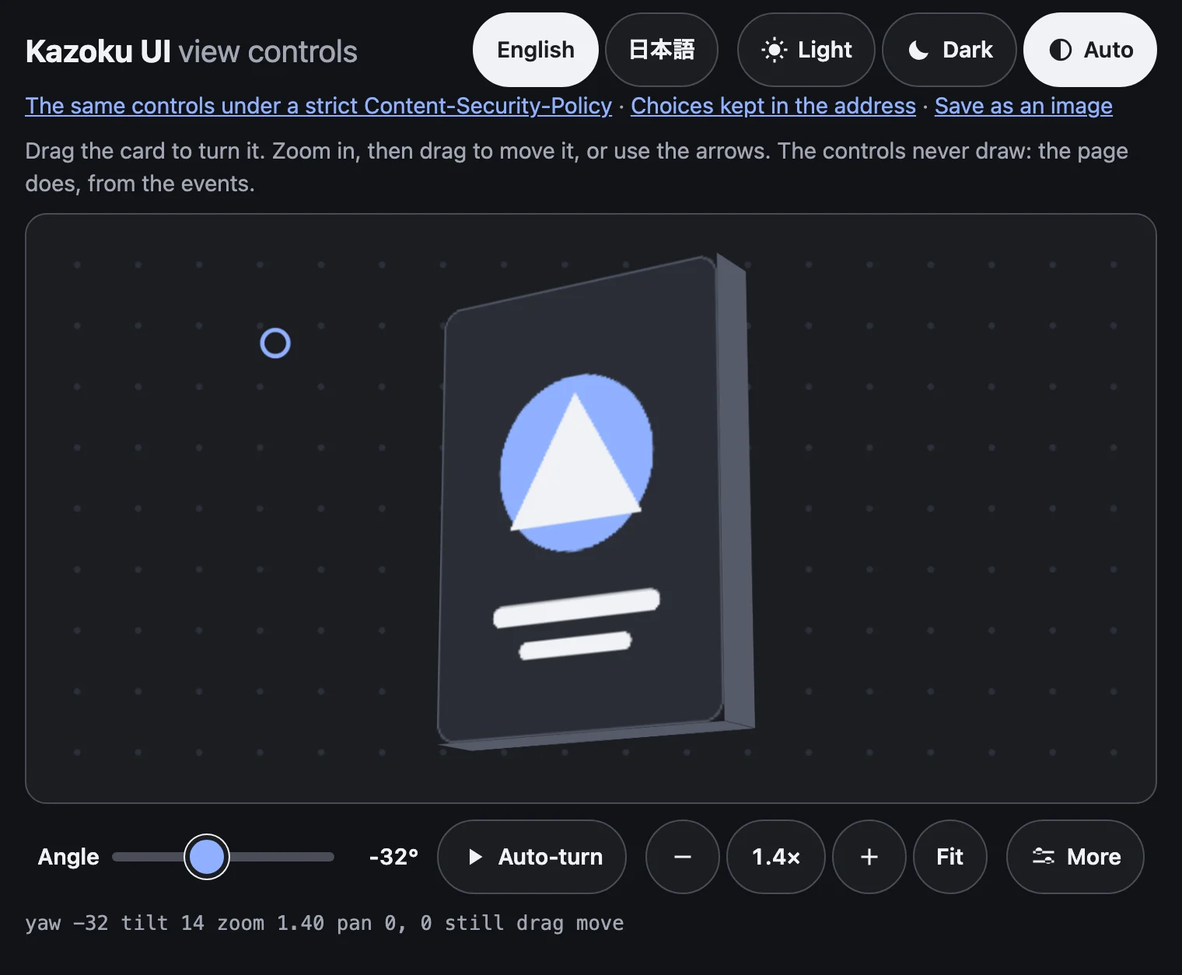
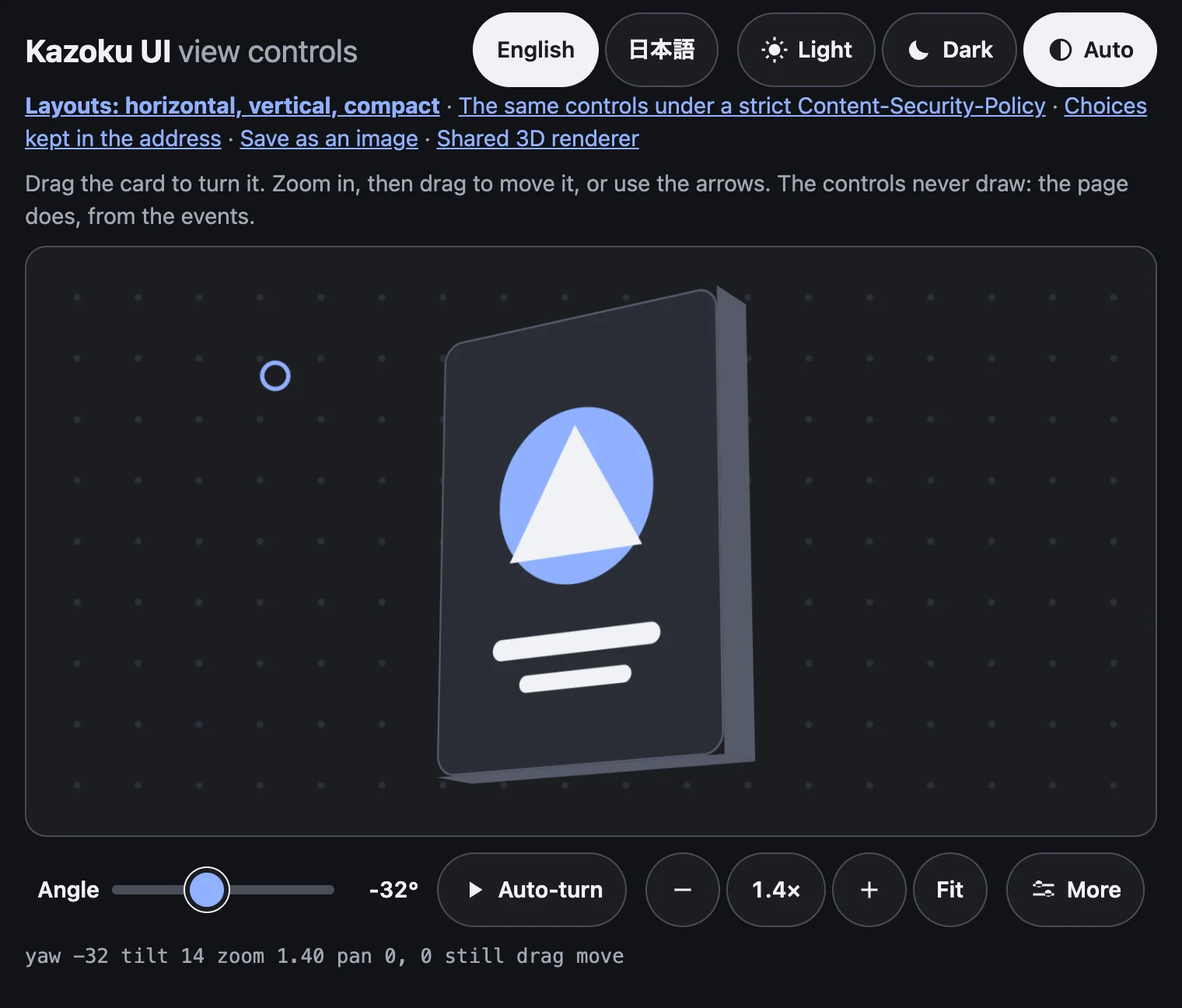
docs(view-controls): the layouts demo and README
demo/layouts.html shows every layout live side by side with its code and a choice of zoom range; the README shows them in a picture made by pnpm screenshots, with a table of what each shows.

diff --git a/demo/layouts.html b/demo/layouts.html
@@ -1,0 +1,99 @@
+<!doctype html>
+<html lang="en">
+<head>
+  <meta charset="utf-8" />
+  <meta name="viewport" content="width=device-width, initial-scale=1" />
+  <meta name="color-scheme" content="light dark" />
+  <title>Kazoku UI: view controls layouts</title>
+  <link rel="stylesheet" href="demo.css" />
+</head>
+<body class="wide">
+<main>
+  <header class="top">
+    <h1>Kazoku UI <span class="sub">view controls layouts</span></h1>
+    <div class="tools">
+      <kazoku-language-picker id="language" languages="en ja" address storage="kazoku-demo-lang" data-testid="language"></kazoku-language-picker>
+      <kazoku-theme-switch id="theme" address storage="kazoku-demo-theme" data-testid="theme"></kazoku-theme-switch>
+    </div>
+  </header>
+  <p class="intro nav"><a href="index.html">The view controls</a> · <a href="https://github.com/johnmorrisdotca/kazoku-ui#layouts">The layouts in the README</a></p>
+  <p class="intro">One element, four layouts, chosen by the <code>layout</code> attribute. Each one below is live: drag a card, press the buttons, slide the zoom. More shows the rest in every layout.</p>
+  <div class="row picks"><span class="name" id="pick-name">Layout</span>
+    <div class="seg" role="group" aria-labelledby="pick-name" data-testid="picks">
+      <button class="pill" type="button" data-pick="horizontal" aria-pressed="true">Horizontal</button>
+      <button class="pill" type="button" data-pick="vertical" aria-pressed="false">Vertical</button>
+      <button class="pill" type="button" data-pick="compact" aria-pressed="false">Compact</button>
+      <button class="pill" type="button" data-pick="classic" aria-pressed="false">Classic</button>
+    </div>
+  </div>
+  <div class="row ranges"><span class="name" id="range-name">Zoom range</span>
+    <div class="seg" role="group" aria-labelledby="range-name" data-testid="ranges">
+      <button class="pill" type="button" data-range="1-5" aria-pressed="true">1× to 5×</button>
+      <button class="pill" type="button" data-range="0.5-4" aria-pressed="false">0.5× to 4×</button>
+      <button class="pill" type="button" data-range="1-10" aria-pressed="false">1× to 10×</button>
+      <button class="pill" type="button" data-range="0.25-16" aria-pressed="false">0.25× to 16×</button>
+    </div>
+  </div>
+  <pre class="code" data-testid="import"><code>import "@johnmorrisdotca/kazoku-ui/view-controls/define";</code></pre>
+
+  <div class="layouts" data-testid="layouts" data-show="horizontal">
+    <section class="layout" data-layout="horizontal" aria-labelledby="h-horizontal">
+      <h2 id="h-horizontal"><code>layout="horizontal"</code></h2>
+      <p class="say">A tidy bar under the view: the turn on one row, the zoom slider on the next; one row when it is wide.</p>
+      <div class="stage">
+        <div class="scene small" id="view-horizontal" tabindex="0" role="group" aria-label="Horizontal example"></div>
+        <kazoku-view-controls for="view-horizontal" layout="horizontal" storage="kazoku-demo-horizontal" data-testid="controls-horizontal"></kazoku-view-controls>
+      </div>
+      <div class="snippet"><pre class="code"><code data-code="horizontal"></code></pre><button class="pill copy" type="button" data-copy="horizontal">Copy</button></div>
+    </section>
+
+    <section class="layout" data-layout="vertical" aria-labelledby="h-vertical">
+      <h2 id="h-vertical"><code>layout="vertical"</code></h2>
+      <p class="say">A column beside the view. Auto-turn and More stay at the top; the turn, then the zoom.</p>
+      <div class="stage beside">
+        <div class="scene small" id="view-vertical" tabindex="0" role="group" aria-label="Vertical example"></div>
+        <kazoku-view-controls for="view-vertical" layout="vertical" storage="kazoku-demo-vertical" data-testid="controls-vertical"></kazoku-view-controls>
+      </div>
+      <div class="snippet"><pre class="code"><code data-code="vertical"></code></pre><button class="pill copy" type="button" data-copy="vertical">Copy</button></div>
+    </section>
+
+    <section class="layout" data-layout="compact" aria-labelledby="h-compact">
+      <h2 id="h-compact"><code>layout="compact"</code></h2>
+      <p class="say">One short row for a card or a phone: Auto-turn, the zoom and More. More opens the slider, the angle and the rest.</p>
+      <div class="stage">
+        <div class="scene small" id="view-compact" tabindex="0" role="group" aria-label="Compact example"></div>
+        <kazoku-view-controls for="view-compact" layout="compact" storage="kazoku-demo-compact" data-testid="controls-compact"></kazoku-view-controls>
+      </div>
+      <div class="snippet"><pre class="code"><code data-code="compact"></code></pre><button class="pill copy" type="button" data-copy="compact">Copy</button></div>
+    </section>
+
+    <section class="layout" data-layout="classic" aria-labelledby="h-classic">
+      <h2 id="h-classic"><code>layout="classic"</code> <span class="sub">(the default)</span></h2>
+      <p class="say">The bar of 0.10 and before, unchanged: a page that names no layout keeps it.</p>
+      <div class="stage">
+        <div class="scene small" id="view-classic" tabindex="0" role="group" aria-label="Classic example"></div>
+        <kazoku-view-controls for="view-classic" storage="kazoku-demo-classic" data-testid="controls-classic"></kazoku-view-controls>
+      </div>
+      <div class="snippet"><pre class="code"><code data-code="classic"></code></pre><button class="pill copy" type="button" data-copy="classic">Copy</button></div>
+    </section>
+  </div>
+</main>
+<template id="card">
+  <div class="zoomer">
+    <div class="grid"></div>
+    <div class="persp">
+      <div class="card">
+        <div class="face front">
+          <svg viewBox="0 0 150 210" aria-hidden="true"><circle cx="75" cy="86" r="42" class="a"/><path d="M75 52l36 62H39z" class="b"/><rect x="30" y="150" width="90" height="10" rx="5" class="b"/><rect x="45" y="168" width="60" height="8" rx="4" class="b"/></svg>
+        </div>
+        <div class="face back">
+          <svg viewBox="0 0 150 210" aria-hidden="true"><rect x="34" y="40" width="82" height="82" rx="14" class="a"/><circle cx="75" cy="81" r="20" class="b"/><rect x="30" y="150" width="90" height="10" rx="5" class="b"/><rect x="45" y="168" width="60" height="8" rx="4" class="b"/></svg>
+        </div>
+        <div class="face edge-l"></div><div class="face edge-r"></div><div class="face edge-t"></div><div class="face edge-b"></div>
+      </div>
+    </div>
+  </div>
+</template>
+<script type="module" src="layouts.js"></script>
+</body>
+</html>

diff --git a/demo/layouts.js b/demo/layouts.js
@@ -1,0 +1,83 @@
+// The layouts side by side: one card per layout, each drawn with CSS 3D from its own element's events, with the code that makes it.
+import "./dist/language-picker/define.js";
+import "./dist/view-controls/define.js";
+import "./dist/theme-switch/define.js";
+
+const all = [...document.querySelectorAll("kazoku-view-controls")];
+const template = document.getElementById("card");
+
+for (const controls of all) {
+  const scene = document.getElementById(controls.getAttribute("for"));
+  scene.append(template.content.cloneNode(true));
+  const card = scene.querySelector(".card");
+  const zoomer = scene.querySelector(".zoomer");
+  controls.addEventListener("kazoku-viewchange", ({ detail: s }) => {
+    card.style.transform = `rotateX(${s.tilt}deg) rotateY(${s.yaw}deg)`;
+    zoomer.style.transform = s.zoom === 1 && s.panX === 0 && s.panY === 0 ? "" : `translate(${s.panX}px, ${s.panY}px) scale(${s.zoom})`;
+  });
+}
+
+// The code for each layout, with the zoom range when it is not the default one.
+let range = { min: "1", max: "5" };
+const limits = () => (range.min === "1" && range.max === "5" ? "" : ` zoom-min="${range.min}" zoom-max="${range.max}"`);
+const CODE = {
+  horizontal: () => `<div id="view" tabindex="0">…your scene…</div>\n<kazoku-view-controls for="view" layout="horizontal"${limits()}></kazoku-view-controls>`,
+  vertical: () => `<div style="display: flex; gap: 12px">\n  <div id="view" tabindex="0" style="flex: 1">…your scene…</div>\n  <kazoku-view-controls for="view" layout="vertical"${limits()}></kazoku-view-controls>\n</div>`,
+  compact: () => `<div id="view" tabindex="0">…your scene…</div>\n<kazoku-view-controls for="view" layout="compact"${limits()}></kazoku-view-controls>`,
+  classic: () => `<div id="view" tabindex="0">…your scene…</div>\n<kazoku-view-controls for="view"${limits()}></kazoku-view-controls>`,
+};
+const writeCode = () => {
+  for (const node of document.querySelectorAll("[data-code]")) node.textContent = CODE[node.dataset.code]();
+};
+writeCode();
+
+// The zoom range: the slider's marks are the ends and the common zooms between them.
+for (const button of document.querySelectorAll("[data-range]")) {
+  button.addEventListener("click", () => {
+    const [min, max] = button.dataset.range.split("-");
+    range = { min, max };
+    for (const other of document.querySelectorAll("[data-range]")) other.setAttribute("aria-pressed", String(other === button));
+    for (const controls of all) {
+      controls.setAttribute("zoom-min", min);
+      controls.setAttribute("zoom-max", max);
+    }
+    writeCode();
+  });
+}
+
+// On a narrow screen one layout at a time, picked from a row; a wide one shows them all side by side.
+const layouts = document.querySelector(".layouts");
+for (const button of document.querySelectorAll("[data-pick]")) {
+  button.addEventListener("click", () => {
+    layouts.dataset.show = button.dataset.pick;
+    for (const other of document.querySelectorAll("[data-pick]")) other.setAttribute("aria-pressed", String(other === button));
+  });
+}
+
+for (const button of document.querySelectorAll("[data-copy]")) {
+  button.addEventListener("click", async () => {
+    const text = CODE[button.dataset.copy]();
+    try {
+      await navigator.clipboard.writeText(text);
+      button.textContent = "Copied";
+    } catch {
+      // No clipboard here (an older browser, or permission refused): select the code so a press of Copy on the keyboard takes it.
+      const code = button.parentElement.querySelector("code");
+      window.getSelection()?.selectAllChildren(code);
+      button.textContent = "Selected";
+    }
+    window.setTimeout(() => { button.textContent = "Copy"; }, 1500);
+  });
+}
+
+const themeSwitch = document.getElementById("theme");
+themeSwitch.addEventListener("kazoku-themechange", (event) => {
+  for (const controls of all) {
+    if (event.detail.choice === "auto") controls.removeAttribute("theme");
+    else controls.setAttribute("theme", event.detail.choice);
+  }
+});
+document.getElementById("language").addEventListener("kazoku-languagechange", (event) => {
+  for (const controls of all) controls.setAttribute("lang", event.detail.lang);
+  themeSwitch.setAttribute("lang", event.detail.lang);
+});

diff --git a/demo/demo.css b/demo/demo.css
@@ -76,3 +76,36 @@ output[data-testid="address"] { min-width: 0; overflow-wrap: anywhere; font: 0.8
 .art .b { fill: var(--face-b); }
 
 #globe { position: absolute; inset: 0; margin: auto; width: 300px; height: 300px; pointer-events: none; }
+/* layouts.html: the layouts side by side. */
+.wide main { max-width: 1240px; }
+.ranges { margin: 4px 0 10px; }
+.layouts { display: grid; gap: 16px; grid-template-columns: repeat(auto-fit, minmax(min(100%, 520px), 1fr)); align-items: start; }
+.layout { min-width: 0; padding: 12px 14px 14px; border: 1px solid var(--line); border-radius: 14px; background: var(--surface); }
+.layout h2 { margin: 0 0 2px; font-size: 1rem; }
+.layout h2 .sub { font-size: 0.9rem; }
+.layout .say { margin: 0 0 8px; color: var(--muted); font-size: 0.9rem; }
+.layout .scene.small { height: 240px; background: var(--bg); }
+.layout .card { width: 110px; height: 154px; }
+.layout .edge-l { transform: rotateY(-90deg) translateZ(55px); }
+.layout .edge-r { transform: rotateY(90deg) translateZ(55px); }
+.layout .edge-t { transform: rotateX(90deg) translateZ(77px); }
+.layout .edge-b { transform: rotateX(-90deg) translateZ(77px); }
+.stage.beside { display: flex; gap: 12px; align-items: flex-start; }
+.stage.beside .scene { flex: 1 1 auto; min-width: 0; height: 280px; }
+.stage.beside kazoku-view-controls { margin-top: 0; flex: none; }
+.snippet { display: flex; align-items: flex-start; gap: 8px; margin-top: 10px; }
+.snippet pre { flex: 1 1 auto; margin: 0; }
+.code { min-width: 0; overflow-x: auto; white-space: pre-wrap; overflow-wrap: anywhere; margin: 0 0 12px; padding: 10px 12px; border: 1px solid var(--line); border-radius: 10px; background: var(--bg); font: 0.8rem/1.5 ui-monospace, "SF Mono", Menlo, monospace; }
+.copy { flex: none; }
+.picks { display: none; }
+@media (max-width: 1099px) {
+  .picks { display: flex; margin: 0 0 10px; }
+  .layouts[data-show="horizontal"] .layout:not([data-layout="horizontal"]), .layouts[data-show="vertical"] .layout:not([data-layout="vertical"]), .layouts[data-show="compact"] .layout:not([data-layout="compact"]), .layouts[data-show="classic"] .layout:not([data-layout="classic"]) { display: none; }
+}
+@media (max-width: 640px) {
+  .stage.beside { flex-direction: column; align-items: stretch; }
+  .stage.beside .scene { height: min(260px, 34vh); }
+  .stage.beside kazoku-view-controls { width: auto; }
+  .layout .scene.small { height: min(220px, 30vh); }
+  .ranges .name { min-width: 0; }
+}

diff --git a/demo/index.html b/demo/index.html
@@ -16,7 +16,7 @@
       <kazoku-theme-switch id="theme" address storage="kazoku-demo-theme" data-testid="theme"></kazoku-theme-switch>
     </div>
   </header>
-  <p class="intro"><a href="csp.html">The same controls under a strict Content-Security-Policy</a> · <a href="address.html">Choices kept in the address</a> · <a href="save-image.html">Save as an image</a> · <a href="renderer.html">Shared 3D renderer</a></p>
+  <p class="intro"><a href="layouts.html"><strong>Layouts: horizontal, vertical, compact</strong></a> · <a href="csp.html">The same controls under a strict Content-Security-Policy</a> · <a href="address.html">Choices kept in the address</a> · <a href="save-image.html">Save as an image</a> · <a href="renderer.html">Shared 3D renderer</a></p>
   <p class="intro" data-say="intro">Drag the card to turn it. Zoom in, then drag to move it, or use the arrows. The controls never draw: the page does, from the events.</p>
   <div class="scene" id="scene" tabindex="0" role="group" aria-roledescription="3D view" data-testid="scene">
     <div class="zoomer" id="zoomer" data-testid="zoomer">

diff --git a/README.md b/README.md
@@ -9,7 +9,7 @@ The family's shared interface parts, as their own versioned package: one part pe
 The first part is the **view controls** for any 3D or zoomable view. They never draw the scene: they tell your page what the reader chose, and your canvas, WebGL,
 SVG or CSS 3D applies it.
 
-[Demo](https://johnmorrisdotca.github.io/kazoku-ui/) · [Strict-CSP demo](https://johnmorrisdotca.github.io/kazoku-ui/csp.html) · [Theme switch](docs/theme-switch.md) · [Language picker](docs/language-picker.md) · [Address state](docs/address-state.md) · [Save image](docs/save-image.md) · [Shared 3D renderer](docs/renderer.md) · [The drag rule](docs/drag-rule.md) · [Content-Security-Policy](docs/csp.md) · [Labels, English and 日本語](docs/labels.md) · [Changelog](CHANGELOG.md)
+[Demo](https://johnmorrisdotca.github.io/kazoku-ui/) · [Layouts demo](https://johnmorrisdotca.github.io/kazoku-ui/layouts.html) · [Strict-CSP demo](https://johnmorrisdotca.github.io/kazoku-ui/csp.html) · [Theme switch](docs/theme-switch.md) · [Language picker](docs/language-picker.md) · [Address state](docs/address-state.md) · [Save image](docs/save-image.md) · [Shared 3D renderer](docs/renderer.md) · [The drag rule](docs/drag-rule.md) · [Content-Security-Policy](docs/csp.md) · [Labels, English and 日本語](docs/labels.md) · [Changelog](CHANGELOG.md)
 
 ```sh
 npm install @johnmorrisdotca/kazoku-ui
@@ -44,8 +44,47 @@ Parts (each its own subpath; later ones: picture-tile pickers, Help, GitHub and 
 - Touch: one finger turns at 1x and moves the view when zoomed in; two fingers pinch.
 - Keys on the view: arrows turn and tip it, `+` and `-` zoom, `0` or Home is Front and Fit.
 - The choices are kept in the address, with keys you can rename.
+- **Four layouts** (`layout`: classic, horizontal, vertical, compact) and a **zoom slider** with marks at 1×, 2× and the ends: see [Layouts](#layouts).
 - Labels in English and Japanese; light and dark; 48 px touch targets; a compact bar on a phone; no automatic turn for a reader who prefers reduced motion.
 - **A control never stops or resets the turn.** Zoom, tilt, pan, the Move or Turn choice, Fit and Front all leave Auto-turn running (Front only sets the angle to 0 and the turn goes on from there). A hand on the angle slider, or turning the view by dragging it, holds the turn still while it is down and the turn carries on from where the hand left it. Only the Auto-turn button pauses it.
+
+### Layouts
+
+<picture>
+<source media="(prefers-color-scheme: dark)" srcset="https://raw.githubusercontent.com/johnmorrisdotca/kazoku-ui/main/docs/images/layouts-dark.webp">
+<img alt="The four layouts side by side, each under a turned card. Horizontal: an Angle slider with Auto-turn and More on one row, and under it a Zoom slider marked 1×, 2×, 3× and 5× with zoom out, the readout 1.6×, zoom in and Fit. Vertical: a column beside the view with Auto-turn and More at the top, then the Angle slider, the Zoom slider with its marks, and zoom out, 1.6×, zoom in and Fit. Compact: one short row of Auto-turn, zoom out, 1.6×, zoom in and More, here opened to show the zoom slider and Fit, the angle and tilt, the three speeds, Front and the pan pad. Classic: the bar as before. Each has its code and a Copy button." src="https://raw.githubusercontent.com/johnmorrisdotca/kazoku-ui/main/docs/images/layouts-light.webp" width="720">
+</picture>
+
+Try them on the [layouts demo](https://johnmorrisdotca.github.io/kazoku-ui/layouts.html): every layout live, side by side, each with its code to copy, and a choice of zoom range to see the slider's marks change.
+
+The `layout` attribute says where the controls sit; `controls` (`basic` or `advanced`, and the reader's More) still says what is shown, the same in every layout. A page that names no layout keeps the bar it had.
+
+| `layout` | What it looks like | Basic shows | More adds |
+|---|---|---|---|
+| `classic` (the default) | The bar of 0.10 and before, unchanged: one wrapping row at a desk, two rows on a phone. No zoom slider. | Angle, Auto-turn, − readout +, Fit, More | Tilt, Slow, Medium, Fast, Front; the pan pad once zoomed in |
+| `horizontal` | A tidy bar under the view: the turn on one row (Angle, Auto-turn, More), the **zoom slider** on the next (Zoom, − readout +, Fit). One row when the bar is 900 px or wider. Under 560 px the labels are read by a screen reader only, and the readout is Fit. | Angle, Auto-turn, the zoom slider, − readout +, Fit, More | Tilt and Front, then the speeds, between the two rows; the pan pad last |
+| `vertical` | A column beside the view, `--kazoku-column-width` wide (16rem). Auto-turn and More at the top, so More does not move when it opens; then the Angle slider, the zoom slider, and − readout + and Fit. On a narrow screen put it under the view and give it `width: auto`. | Auto-turn, More, Angle, the zoom slider, − readout +, Fit | Tilt, the speeds, Front, the pan pad, in the column |
+| `compact` | The least room, for a card or a phone: **one row** of Auto-turn, −, the readout, + and More (icons, named for a screen reader). It never takes a second row until More is pressed; while it turns, the speed is in More. | Auto-turn, − readout +, More | Everything else, one press away, under the row: the zoom slider and Fit, Angle, Tilt, the speeds, Front, the pan pad |
+
+```html
+<!-- Horizontal: under the view -->
+<div id="view" tabindex="0">...your scene...</div>
+<kazoku-view-controls for="view" layout="horizontal"></kazoku-view-controls>
+
+<!-- Vertical: beside the view -->
+<div style="display: flex; gap: 12px">
+  <div id="view" tabindex="0" style="flex: 1">...your scene...</div>
+  <kazoku-view-controls for="view" layout="vertical"></kazoku-view-controls>
+</div>
+
+<!-- Compact: one row; with overlay it floats over the bottom corner of a positioned card -->
+<div style="position: relative">
+  <div id="view" tabindex="0">...your scene...</div>
+  <kazoku-view-controls for="view" layout="compact" overlay></kazoku-view-controls>
+</div>
+```
+
+**The zoom slider** (horizontal, vertical and compact) runs from `zoom-min` to `zoom-max` on a logarithmic scale, so a press of − or + moves it the same distance anywhere along it. It has marks, labelled, at both ends and at the common zooms between them that have room for a label: 1× to 5× gives 1×, 2×, 3×, 5×; 0.5× to 4× gives 0.5×, 1×, 2×, 4×; 1× to 10× gives 1×, 2×, 4×, 10×. The readout beside it is the true zoom, and the slider always shows it too, whatever moved the view (the buttons, the wheel, a pinch, a double press, Fit, the keys on the view, the address, `set`, the limits). A drag or a press that ends within 8 px of a mark goes to it; anywhere else it stays where it was let go. − and + still step by 1.4×. Keys on the slider: the arrows step by 1.1× and stop on a mark they would pass, Page Up and Page Down go to the next mark, Home and End to the ends. A screen reader hears its value as the readout says it (`2.4×`), and its name is Zoom. Without the element, `zoomMarks(min, max)`, `zoomPosition`, `zoomAtPosition`, `zoomStep`, `zoomToMark` and `zoomSnap` are the same scale in `@johnmorrisdotca/kazoku-ui/view-controls`.
 
 ### In plain HTML
 
@@ -193,16 +232,17 @@ An `init` event is sent once, a moment after the element connects, with the star
 | `autoplay-for` | Seconds of turning after which the `autoplay` turn stops by itself (as Auto-turn pressed). Left out, it never stops. Time spent paused off screen or in a hidden tab is not counted, and a reader's own Auto-turn press has no limit. |
 | `speed` | Degrees a second at Medium (30); Slow is half and Fast twice. |
 | `controls` | `basic` (the default) or `advanced`: which controls are shown (see above; the zoom readout in both, the speed in both while the view turns). Written in the page's markup it is where the reader starts; what the reader chose with More is remembered under `kazoku-view-controls` in `localStorage` (or the key `storage` names) and wins. Setting the attribute later changes the level at once. The host carries `data-level` with the level now. |
+| `layout` | `classic` (the default), `horizontal`, `vertical` or `compact`: where the controls sit (see [Layouts](#layouts)). Can change at any time. Anything else is `classic`. The host carries `data-layout` with the layout in use. |
 | `storage` | The `localStorage` key the level is remembered under (`kazoku-view-controls`). |
 | `flat` | The view cannot turn: no angle, tilt, Auto-turn or Front, and a drag moves it. |
 | `tilt-max`, `zoom-min`, `zoom-max` | The limits (30, 1, 5). |
 | `address` | Keep the choices in the page's address (`?yaw=40&tilt=10&zoom=2&drag=turn&speed=fast`). |
 | `address-keys` | Other keys: `yaw:a,zoom:z`. |
 | `theme` | `light` or `dark`; otherwise the page's colour scheme. |
-| `overlay` | Sit over the bottom of a positioned parent. |
+| `overlay` | Sit over the bottom of a positioned parent. With `layout="compact"` the row floats 8 px in from the bottom start corner instead of spanning the bottom. |
 
 Methods: `play()`, `pause()`, `front()`, `fit()`, `set({ yaw, tilt, zoom, panX, panY, drag })`, `setFitScale(n)`, and `controller` (the `createViewController` object behind it). `element.words = { front: "Home" }` replaces labels.
-Colours are custom properties: `--kazoku-ink`, `--kazoku-surface`, `--kazoku-line`, `--kazoku-accent`; the parts are `bar`, `field`, `slider` and `button`.
+Colours are custom properties: `--kazoku-ink`, `--kazoku-surface`, `--kazoku-line`, `--kazoku-accent`; the parts are `bar`, `field`, `slider` and `button`, and the zoom slider's `zoom-slider` (on its field and its input).
 
 ### The address
 
@@ -295,11 +335,11 @@ The styles are adopted as a constructable stylesheet (`adoptedStyleSheets`), so 
 
 ## Size
 
-Gzipped, unbundled. View controls: the element and its definition about 7.3 KB, the controller 4.6 KB, the sight watch 0.6 KB, the maths 1.4 KB, the address 1.4 KB, the levels 0.4 KB, the labels 0.9 KB and the styles 2.0 KB. Theme switch: the element and its definition 3.3 KB, the choices 1.0 KB, the labels 0.3 KB and the styles 0.3 KB. Language picker: the element and its definition 2.8 KB, the codes and names 1.7 KB, the labels 0.3 KB. Save image: the element and its definition 3.0 KB, the rendering 3.6 KB, the formats and file names 1.0 KB, the labels 0.4 KB. Address state: 2.1 KB. Shared 3D renderer: 8.9 KB (the renderer 4.5, the scheduler 1.2, the assets 1.4, the stills 0.6, the pixel budget 0.8, the index 0.4), the test kit 1.6 KB; three.js is the page's own and is not counted. Shared by parts: the style adoption 0.8 KB, the base styles 1.0 KB, the page's colours 0.5 KB and the target and the store 0.6 KB. `pnpm test:package` prints them. Nothing is loaded from the network.
+Gzipped, unbundled. View controls: the element and its definition about 8.7 KB, the controller 4.6 KB, the sight watch 0.6 KB, the maths 1.4 KB, the address 1.4 KB, the levels and layouts 0.6 KB, the zoom scale 1.5 KB, the labels 0.9 KB and the styles 3.7 KB (the four layouts and the slider). Theme switch: the element and its definition 3.3 KB, the choices 1.0 KB, the labels 0.3 KB and the styles 0.3 KB. Language picker: the element and its definition 2.8 KB, the codes and names 1.7 KB, the labels 0.3 KB. Save image: the element and its definition 3.0 KB, the rendering 3.6 KB, the formats and file names 1.0 KB, the labels 0.4 KB. Address state: 2.1 KB. Shared 3D renderer: 8.9 KB (the renderer 4.5, the scheduler 1.2, the assets 1.4, the stills 0.6, the pixel budget 0.8, the index 0.4), the test kit 1.6 KB; three.js is the page's own and is not counted. Shared by parts: the style adoption 0.8 KB, the base styles 1.0 KB, the page's colours 0.5 KB and the target and the store 0.6 KB. `pnpm test:package` prints them. Nothing is loaded from the network.
 
 ## Checks
 
-`pnpm check` (lint, types, 104 unit tests of the maths, the address, the controller and the package, the build and the packed package), and `pnpm test:demo` (the demo in Chromium and WebKit at a phone's width and a desk's: the controls in the first screen, a toggle during Auto-turn leaves the angle advancing, the frame loop counted at `requestAnimationFrame` (nothing out of sight or hidden, one callback a page frame otherwise, a moved element too), the zoom readout against the state after every way of zooming, the speed button adding no row, a button or link inside the view still clicks while a drag turns it, the opening zoom and fit scale, zoom about the pointer, zoom about an anchor (`?anchor=pin`), Arrow Up either way (`?key-tilt=wheel`), `?stop-turn`, `?tilt-step=1`, pan when zoomed, touch, the address, the labels, reduced motion, the controls styled under a strict `style-src` with no violation, `demo/csp.html`, the theme switch and the language picker in each browser and size, the address state, back and forward and no history added, on `demo/address.html`, and the save buttons: each file read back from disk, on `demo/save-image.html`, and the shared 3D renderer on `demo/renderer.html`: one WebGL context over fifty focus changes, nothing drawn or requested at rest, the GPU objects and heap flat, the canvas within budget at 5K, context loss, out of sight, the stills' byte budget, and three.js fetched only when a view goes live).
+`pnpm check` (lint, types, 122 unit tests of the maths, the address, the controller and the package, the build and the packed package), and `pnpm test:demo` (the demo in Chromium and WebKit at a phone's width and a desk's: the controls in the first screen, a toggle during Auto-turn leaves the angle advancing, the frame loop counted at `requestAnimationFrame` (nothing out of sight or hidden, one callback a page frame otherwise, a moved element too), the zoom readout against the state after every way of zooming, the speed button adding no row, each layout's controls, rows and sizes (compact one row on a phone, turning adding no row), the zoom slider by keys, mouse and touch, its marks for several ranges and always the true zoom, the layouts page, a button or link inside the view still clicks while a drag turns it, the opening zoom and fit scale, zoom about the pointer, zoom about an anchor (`?anchor=pin`), Arrow Up either way (`?key-tilt=wheel`), `?stop-turn`, `?tilt-step=1`, pan when zoomed, touch, the address, the labels, reduced motion, the controls styled under a strict `style-src` with no violation, `demo/csp.html`, the theme switch and the language picker in each browser and size, the address state, back and forward and no history added, on `demo/address.html`, and the save buttons: each file read back from disk, on `demo/save-image.html`, and the shared 3D renderer on `demo/renderer.html`: one WebGL context over fifty focus changes, nothing drawn or requested at rest, the GPU objects and heap flat, the canvas within budget at 5K, context loss, out of sight, the stills' byte budget, and three.js fetched only when a view goes live).
 
 ## Not yet
 

diff --git a/CHANGELOG.md b/CHANGELOG.md
@@ -9,6 +9,14 @@
 - **The drag rule**, written down in `docs/drag-rule.md`: the surface under the pointer follows the pointer, the arrow keys agree, Auto-turn goes the object's real way.
 - **`templates/e2e-ground.mjs`**, the shared browser check of the rule (`checkFollowsTheHand`, `checkExactGrab`, and the parts; `picture` names what is photographed and `window` the part of it that is followed, for a thin object such as a rocket), copied unchanged into a package's `e2e/`; a unit test holds its finder. The demo's `grab.html` draws a globe turned with exact grab and is tested with the helper.
 
+The view controls in four layouts, chosen by one attribute, and the zoom as a slider with marks. A page that names no layout looks exactly as before.
+
+- **`layout="horizontal|vertical|compact"`** on `<kazoku-view-controls>` (KAZOKU-UI-29). `horizontal` is a tidy bar under the view: the turn on one row, the zoom slider on the next, one row when the bar is 900 px or wider. `vertical` is a column beside the view (`--kazoku-column-width`, 16rem), Auto-turn and More at the top so More stays put. `compact` is one short row (Auto-turn, −, the readout, +, More) that never takes a second row until More is pressed, and then shows everything else under it. `classic` is the default and the bar of 0.10, unchanged. The level (`controls`, More) still says what is shown, the same way in every layout. The host carries `data-layout`, and `data-flat` on a flat view.
+- **The zoom slider** in the horizontal, vertical and compact layouts: `zoom-min` to `zoom-max` on a logarithmic scale, marked and labelled at the ends and at the common zooms between them that have room (1×, 2×, 3×, 5× for the default range). The readout stays beside it and both always show the true zoom. − and + still step. A drag or press within 8 px of a mark goes to it, never further. Keys: arrows step by 1.1× and stop on a mark they would pass, Page Up and Down go from mark to mark, Home and End to the ends. A screen reader hears the value as the readout says it. Part names `zoom-slider`.
+- **The scale without the element**: `zoomMarks`, `zoomPosition`, `zoomAtPosition`, `zoomStep`, `zoomToMark`, `zoomSnap`, `COMMON_ZOOMS`, `MARK_GAP`, `SLIDER_STEP`, `SNAP_PX`, and `parseLayout`, `LAYOUTS` and the type `Layout`, from `@johnmorrisdotca/kazoku-ui/view-controls`.
+- **The layouts demo** (`demo/layouts.html`, on GitHub Pages as `layouts.html`): every layout live, side by side, each with its code and a Copy button, and a row of zoom ranges that changes every slider's marks and the code; one layout at a time, picked from a row, below 1100 px. The main demo takes `?layout=`, `?zoom-min=` and `?zoom-max=`. The README shows the layouts in a picture (`docs/images/layouts-*.webp`, made by `pnpm screenshots`) and a table of what each shows.
+- Tests: `test/zoom-scale.test.ts` (the scale, the marks for six ranges, the keys' steps, the snap, the layout words) and `e2e/layouts.demo.mjs` (each layout's controls, rows and sizes at a phone's width and a desk's, no row added by turning, compact one row on a phone, More staying put in the vertical column, the marks against the limits and the track, the slider by keys, mouse and touch, the slider and readout true after every way of zooming, the slider's name in both languages, and the layouts page).
+
 ## [0.10.1] - 2026-11-02
 
 - **`onContext("restored")`** (KAZOKU-UI-15, found by chikyu-earth). The shared renderer's `onContext` was told `"lost"` and `"unavailable"` but never `"restored"`, although `docs/renderer.md` and the `SharedRendererOptions` type said it was. It is now called when the browser gives the context back, after the focused view draws again. `e2e/renderer.demo.mjs`'s lost-and-restored check reads the events the demo records (`["lost"]`, then `["lost", "restored"]`); it fails on 0.10.0, where the second list is `["lost"]`.
